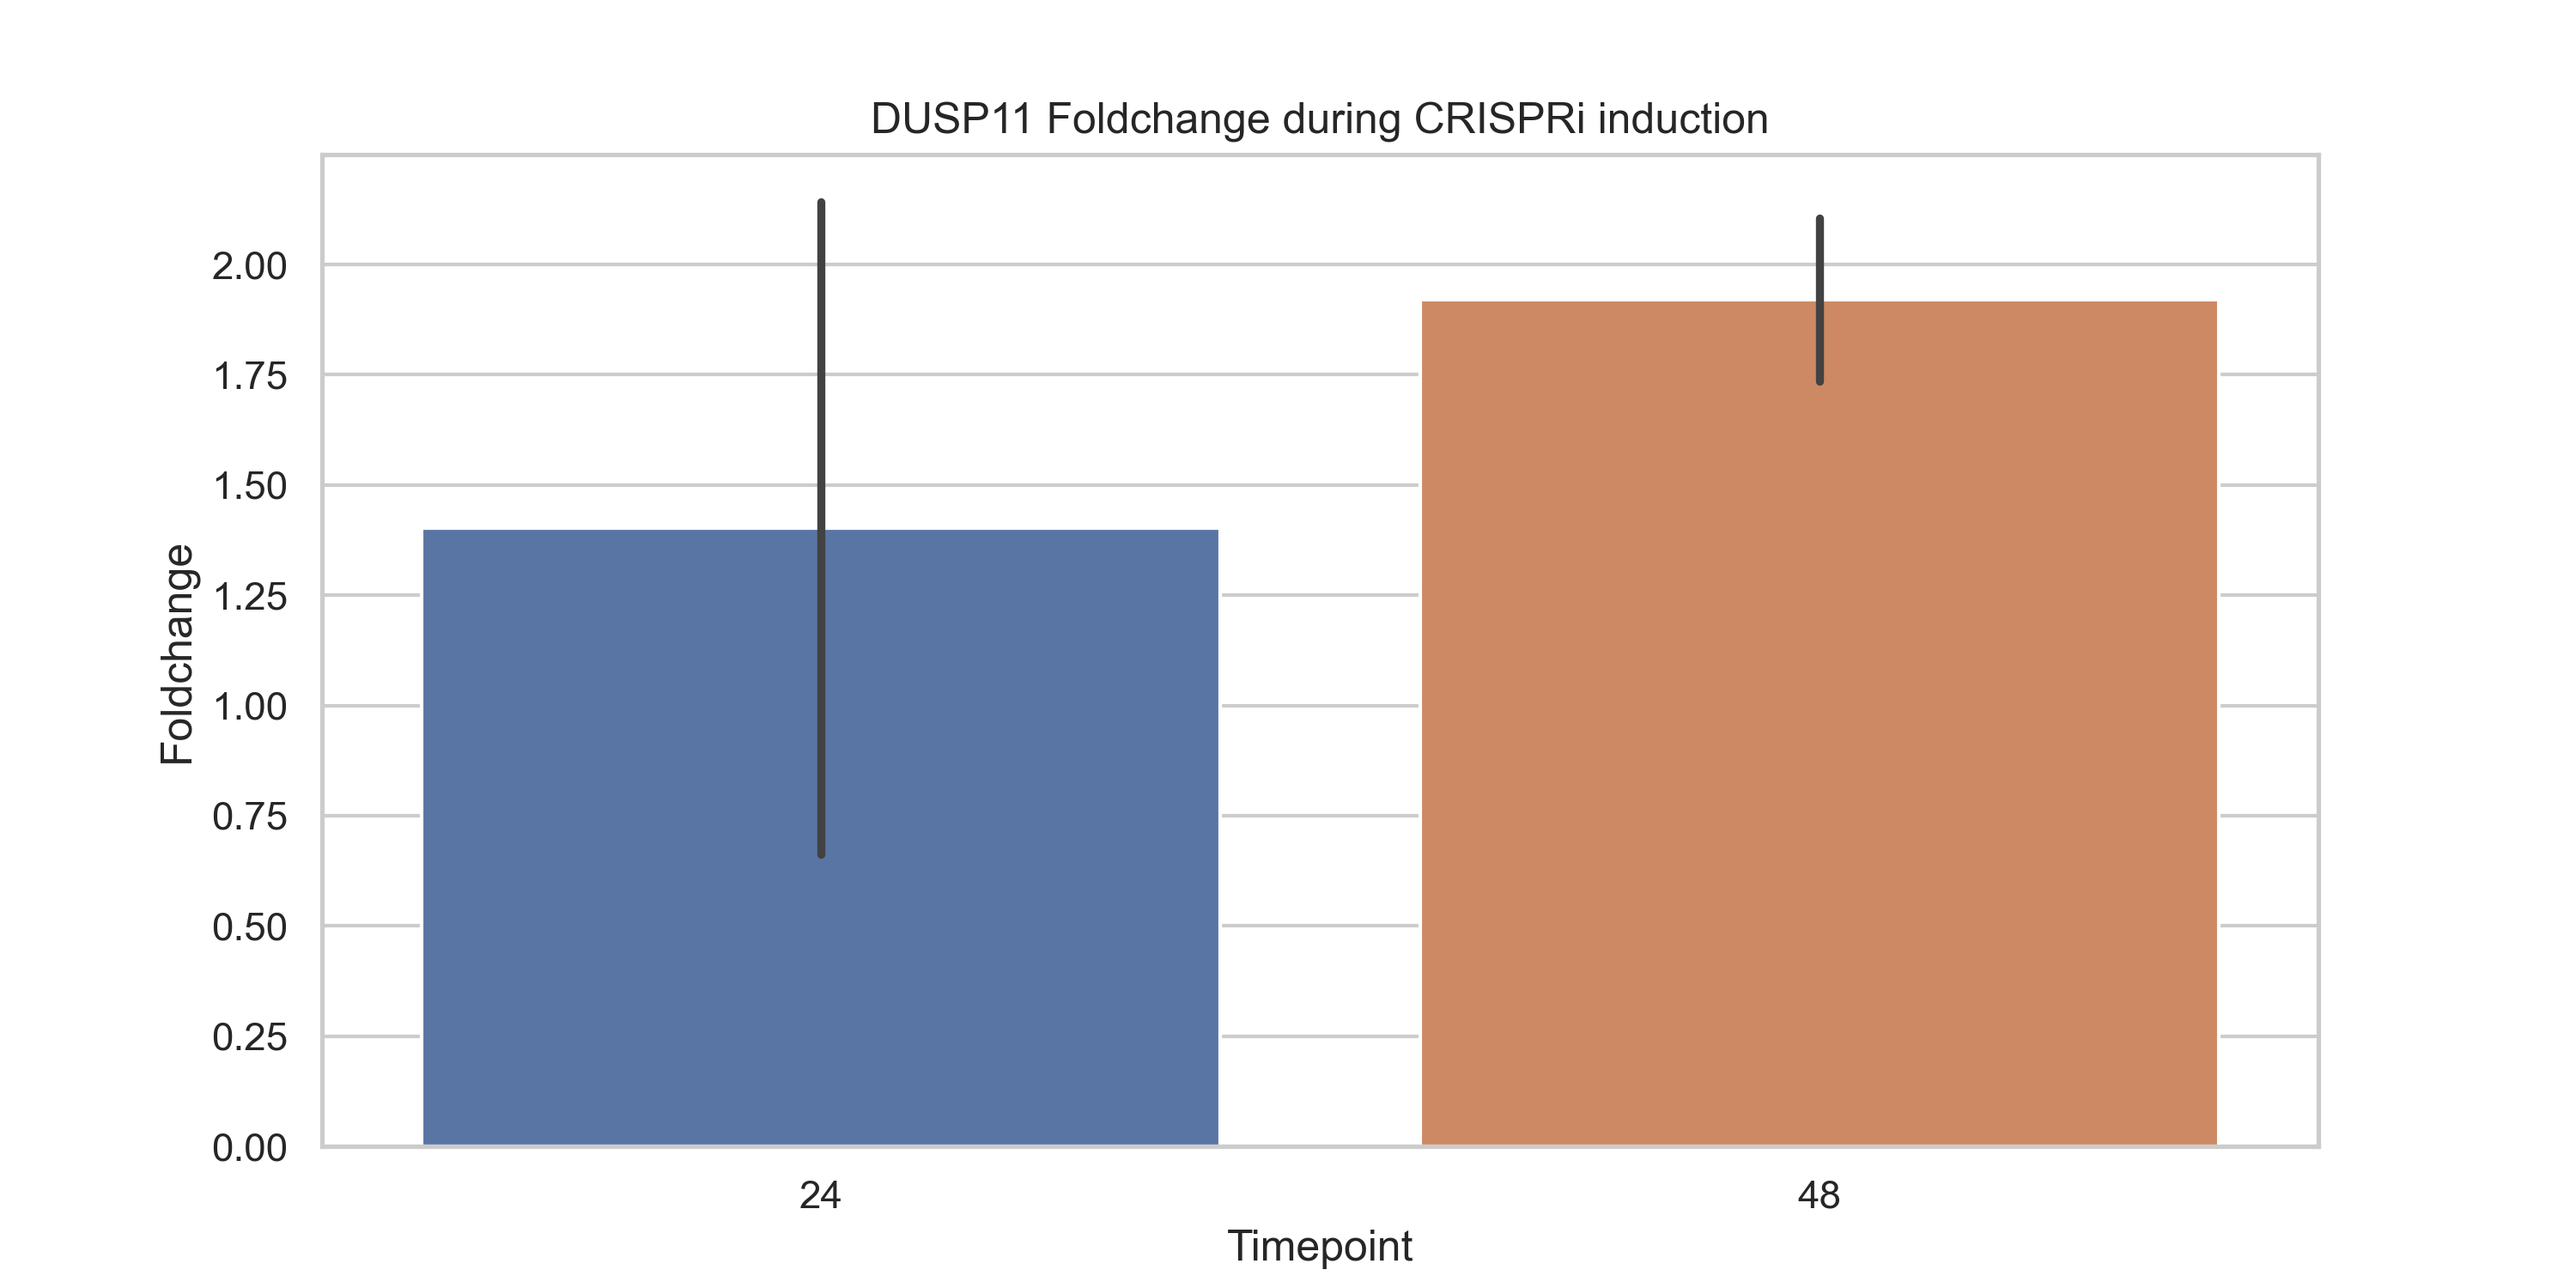
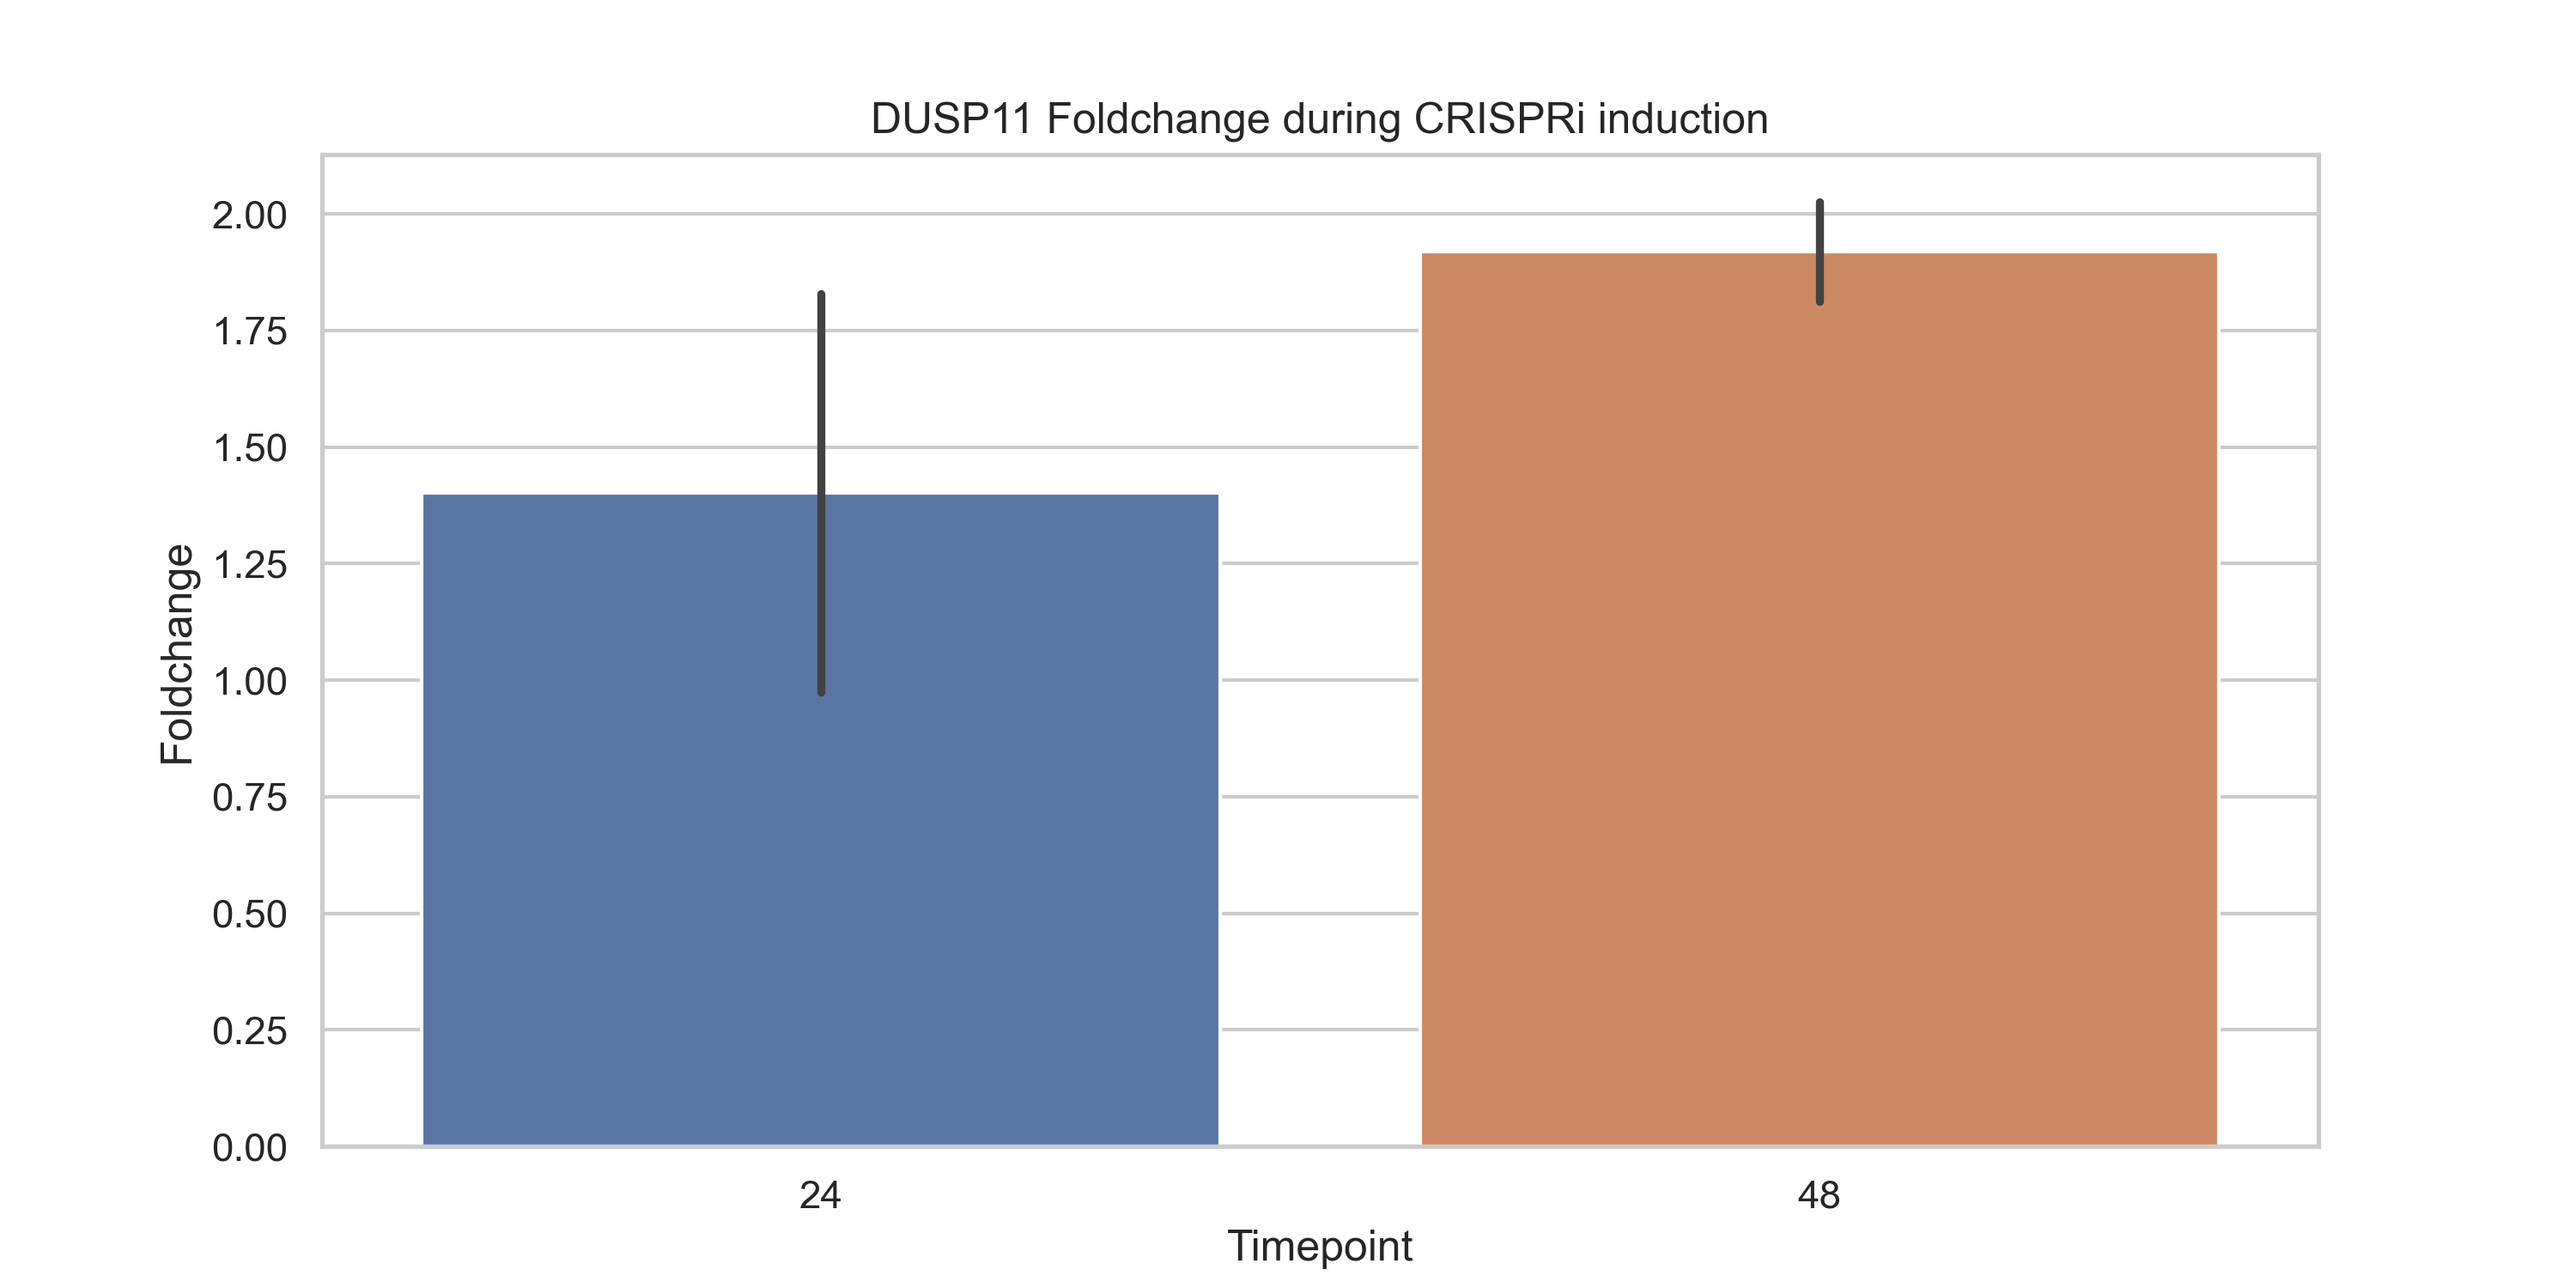
Update error bar calculation in plot_foldchange function

diff --git a/TN031/TN031.9.py b/TN031/TN031.9.py
@@ -79,7 +79,7 @@ def plot_foldchange(df, title):
     """Plot foldchange."""
     sns.set_theme(style="whitegrid")
     plt.figure(figsize=(10, 5))
-    ax = sns.barplot(data=df, errorbar="sd")
+    ax = sns.barplot(data=df, errorbar="se")
     ax.set_title(title)
     ax.set_xlabel("Timepoint")
     ax.set_ylabel("Foldchange")
